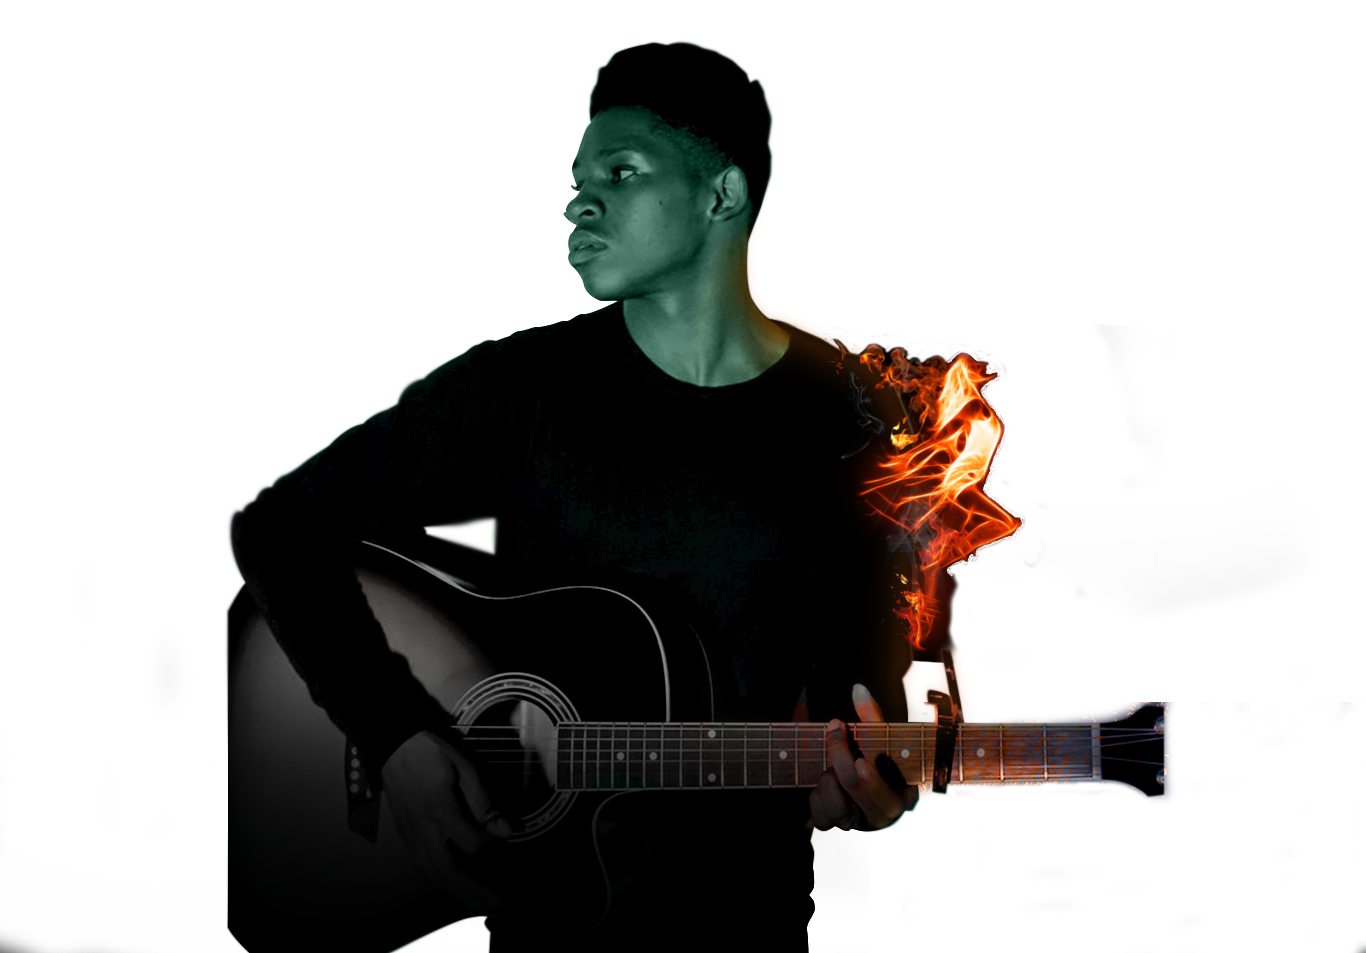
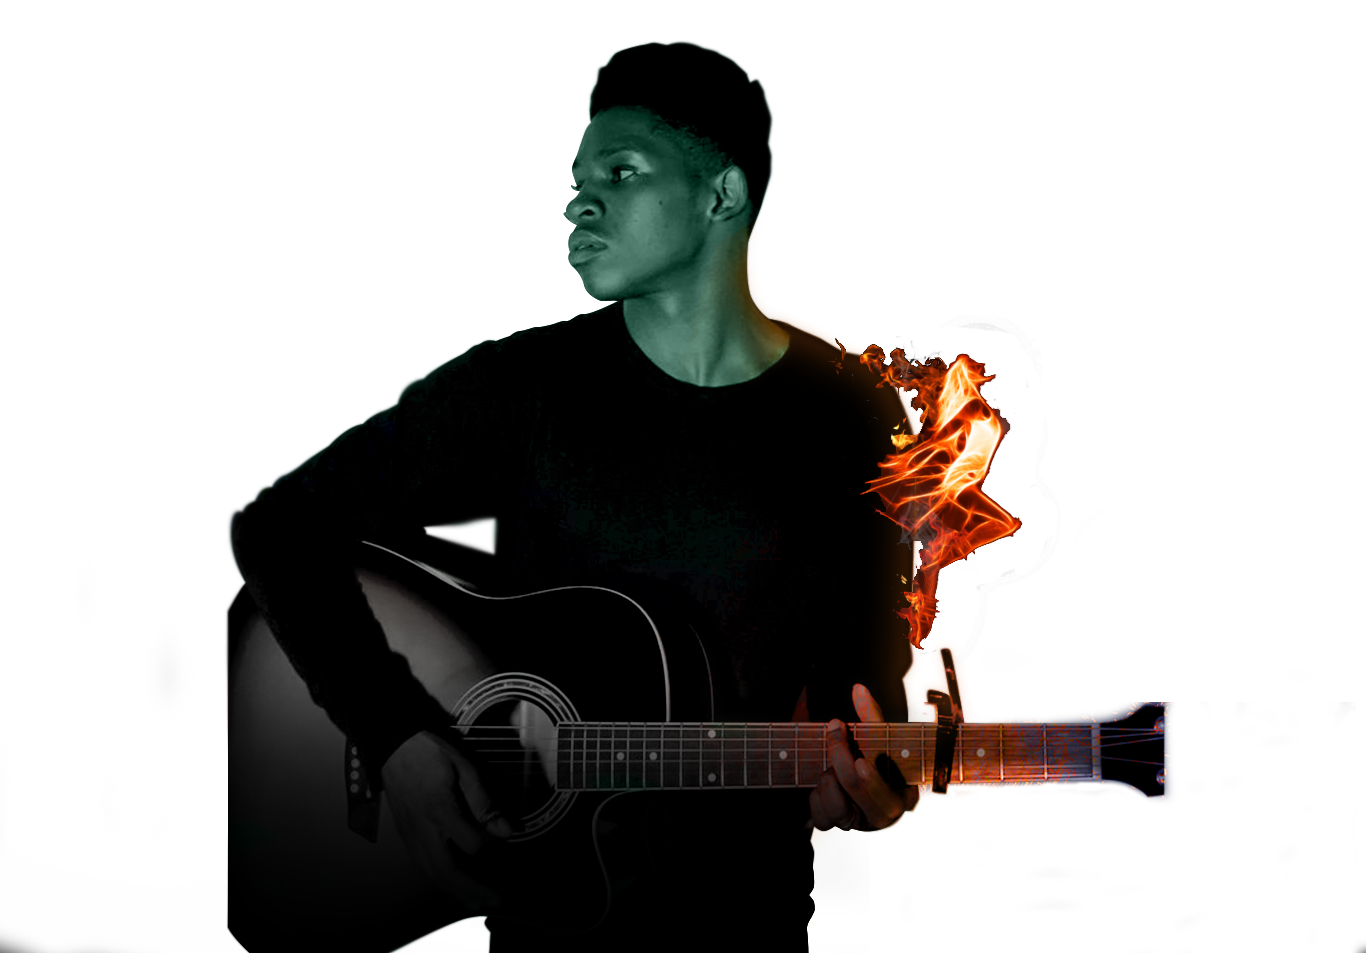
hero section -fading assets v2

diff --git a/css/styles.css b/css/styles.css
@@ -58,6 +58,24 @@
   	background-size: cover;
 }
 
+/*
+html {
+    width: 100%;
+    height: 100%;
+    overflow: hidden;
+}
+*/
+body {
+    width: 100%;
+    height: 100%;
+    /* Text styles */
+    font-family: 'Lato',sans-serif;
+    font-size: 18px;
+    font-weight: 300;
+    color: #212121;
+    perspective: 4px; /* The depth */
+
+}
 /*===============================================================
  Hero Style
 ==================================================================*/
@@ -70,6 +88,7 @@
 	margin: auto;
 }	
 
+/*
 .img-wrapper {
   display: grid;
   height: 100vh;
@@ -84,7 +103,27 @@
   background-color: var(--gray);
   transition: opacity 0.1s;
 }
+*/
 
+
+
+header div {
+    position: absolute;
+    z-index: 1;
+    top: 50%;
+    padding: 0 30px;
+    font-family: 'Roboto Condensed', sans-serif;
+    transform: translateZ(-2px) scale(1.5);
+}
+header h1 {
+    font-size: 4.5rem;
+    font-weight: 700;
+    color: #009688;
+}
+header h2 {
+    font-size: 2.2rem;
+    font-weight: 300;
+}
 
 
 /*===============================================================

diff --git a/index.html b/index.html
@@ -29,11 +29,14 @@
 			  document.querySelector(".twitter").style.opacity = opacity;
 			});
 		</script>
+
+
    </head>
    
 	<body>
 	
 	<div class="wrapper">
+
 
 		  <div class="hero">
 			<div class="img-wrapper">
@@ -187,8 +190,5 @@
         <script src="https://cdn.jsdelivr.net/bxslider/4.2.12/jquery.bxslider.min.js"></script>          
         <script src="js/main.js"></script>
 
-$(window).scroll(function(){
-    $(".top").css("opacity", 1 - $(window).scrollTop() / 250);
-  });
    </body>
 </html>
